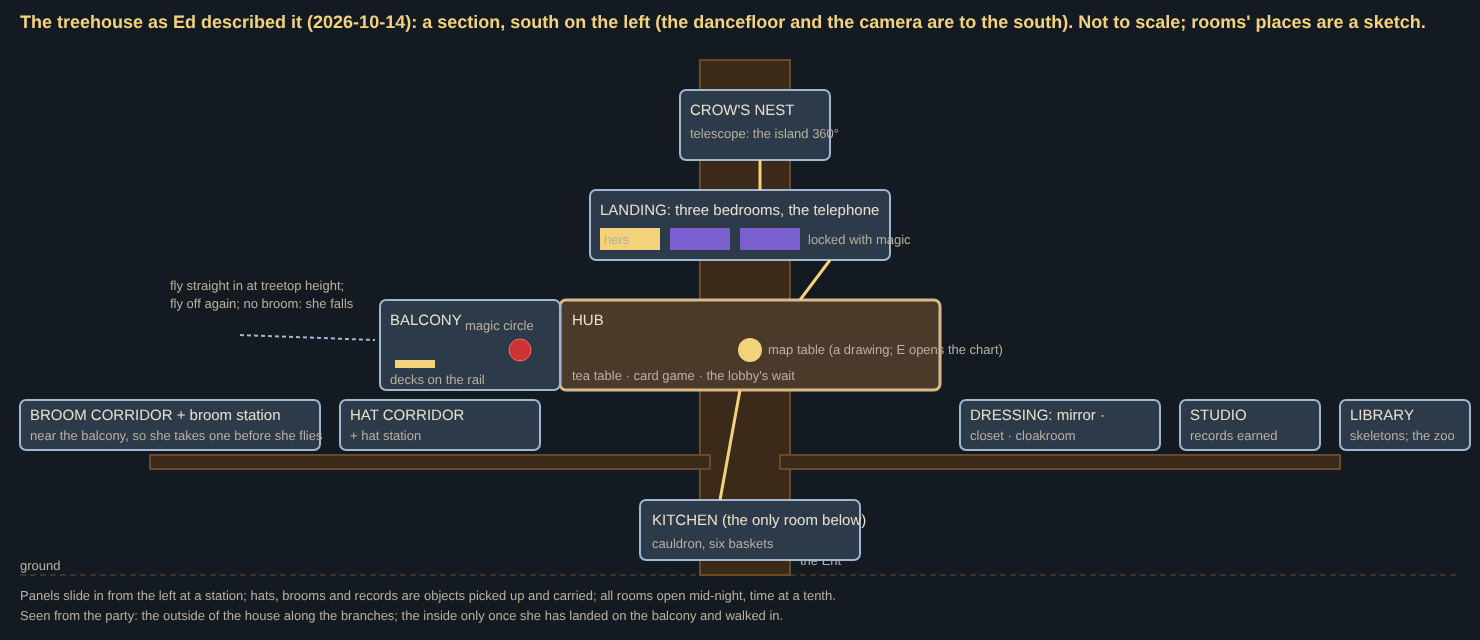
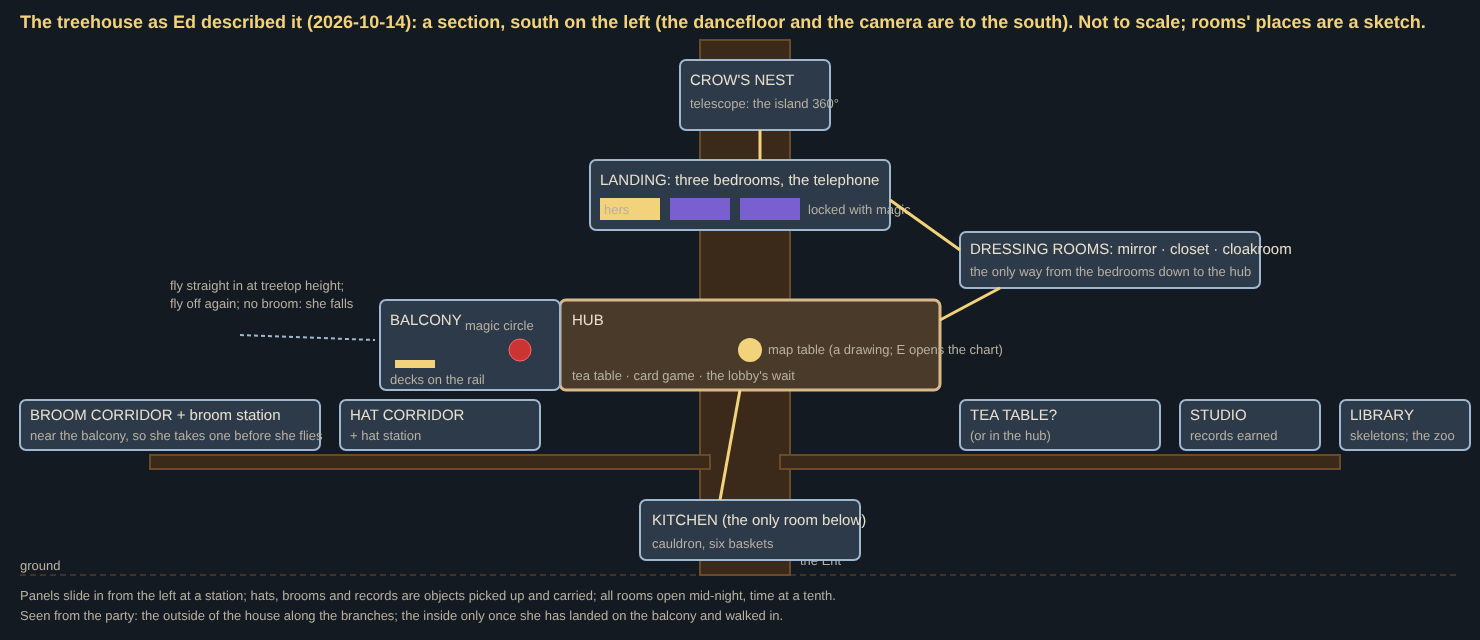
Treehouse plan: the dressing rooms between the bedrooms and the hub (Ed)
Claude-Session: https://claude.ai/code/session_01SzjrULBxoRwTPW2F6P3sSi

Changed region(s): [[0.373, 0.0625, 0.8703, 0.4688], [0.6527, 0.625, 0.7459, 0.6875], [0.6216, 0.4688, 0.6527, 0.5]]

diff --git a/docs/backlog/treehouse.md b/docs/backlog/treehouse.md
@@ -8,7 +8,7 @@ Backlog (Ed, 2026-10-14, from an interview with Juliet). **Not built yet; don't 
 
 - **A walkable house, not a set of panels** (Ed): "no transitions, just different rooms you can walk between". She walks from room to room as she walks the deck today; nothing opens over the game.
 - **Organised round a hub with the map at its centre.** The hub is the room behind the balcony; every other room is reached from it, by a door, a corridor or a stair.
-- **Three-dimensional:** "it spreads out but also rooms are higher and lower, and you walk up and down stairs to get to them". The house spreads **wide**, with **corridors running out along the Ent's branches**. The bedrooms are above the hub; **the kitchen is the only room below it**.
+- **Three-dimensional:** "it spreads out but also rooms are higher and lower, and you walk up and down stairs to get to them". The house spreads **wide**, with **corridors running out along the Ent's branches**. The bedrooms are above the hub, and **the dressing rooms lie between the bedrooms and everything else: you get to the hub by going through them** (Ed). **The kitchen is the only room below the hub**.
 - **The game's own camera, zoomed in** (Ed): "a seamless transition from treehouse to game, but the camera zooms in so you can see the detail". No cut to another scene: the camera that followed her over the island follows her in, pushing in closer indoors.
 - **Seen from the party, the house is seen from outside** (Ed): from the dancefloor you see the outside of the house along the branches, never its rooms; "you only see the inside after you land on the balcony and walk inside".
 - **The Ent itself doesn't change** over the campaign, and **no new rooms unlock**: the house is whole from the first night.
@@ -29,7 +29,7 @@ Backlog (Ed, 2026-10-14, from an interview with Juliet). **Not built yet; don't 
 | **Hub** | behind the balcony | the **map table** in the centre: a drawing of the world, one size for good; a button (E) opens the sea chart to look and to sail. Also the **tea table**: wait, drink tea, play a little card game (the lobby's waiting place) |
 | **Bedrooms**, three | up a stair, off a landing | sleep: the end of a night, where the next one starts. One is hers; **the other two are locked with magic** until a friend joins. Each player's bedroom is their own: **furniture and personal items** to choose, **trophies** from achievements; it carries across to other games |
 | **Telephone** | near the bedrooms | multiplayer: call friends to the party (a party code) |
-| **Dressing stations**: the mirror, the closet, the cloakroom | along a corridor | the character creator split into places, no tabs: the **mirror** for hair, face and earrings; the **closet** for trousers and jacket; the **cloakroom** for the cloak; more stations as the look needs (shoes, scarf). A **nightie** is one of the options |
+| **Dressing rooms**: the mirror, the closet, the cloakroom | between the bedrooms and the hub, on the way down | the character creator split into places, no tabs: the **mirror** for hair, face and earrings; the **closet** for trousers and jacket; the **cloakroom** for the cloak; more stations as the look needs (shoes, scarf). A **nightie** is one of the options |
 | **Hat corridor** and **hat station** | out along a branch | the hats she has unlocked hang in a line; she **picks one up as a game object** (E) and wears it; the station is where she brings a hat to customise its look |
 | **Broom corridor** and **broom station** | out along a branch, near the balcony | the brooms, the same way: lined up, pick one up, customise it at its station |
 | **Studio** | off the hub | the records she has earned; take one to the decks (below). Ed is not yet sure what else the studio does: "perhaps you can play or even record music" |
@@ -46,7 +46,7 @@ Some of these are **areas of the hub or of another room rather than rooms of the
 ## A night through the house
 
 1. **She wakes in her bed, in her nightie.** The game waits here (no clock, no boot) as it waits for the party spell today.
-2. **She dresses, or doesn't.** "She has to dress every time she wakes up, but yesterday's clothes are the defaults": at a station she puts on yesterday's clothes at once, and changes what she likes. She may leave in her nightie if she wants to (it is one of the options).
+2. **She dresses, or doesn't.** The way from the bedrooms to the hub runs through the dressing rooms, so she passes every station. "She has to dress every time she wakes up, but yesterday's clothes are the defaults": at a station she puts on yesterday's clothes at once, and changes what she likes. She may walk on in her nightie if she wants to (it is one of the options).
 3. **A hat and a broom** from their corridors. Without a broom she can't fly, and the balcony is a drop.
 4. **A record.** In a **brand new game there is one record and it is already on the decks**, so a new player has nothing to find. **Unlocked records appear in the studio**, and she learns she can carry one to the decks.
 5. **The decks.** The needle drops on the record: that is the party spell (journey.md: "the dancefloor is a spell"). She flies off the balcony and the night begins.
